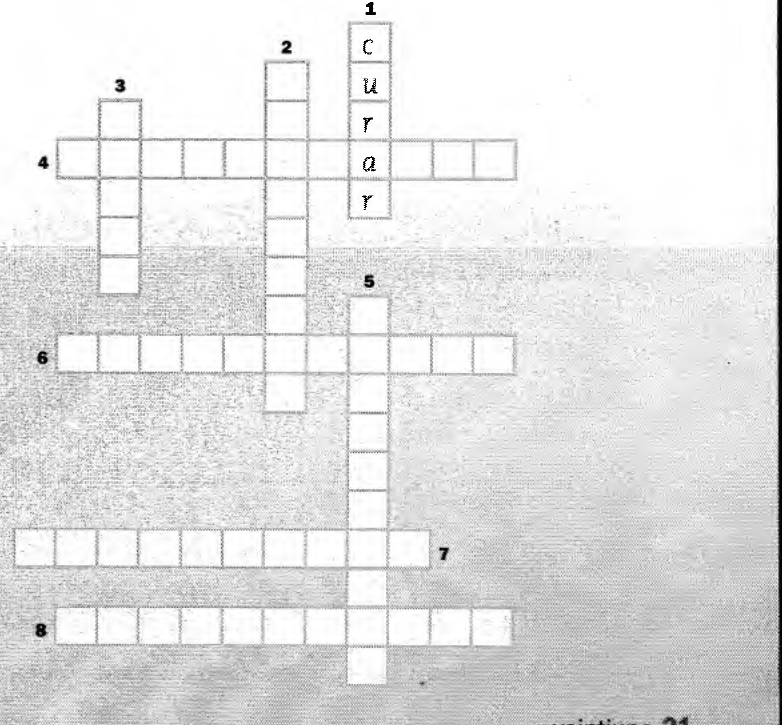
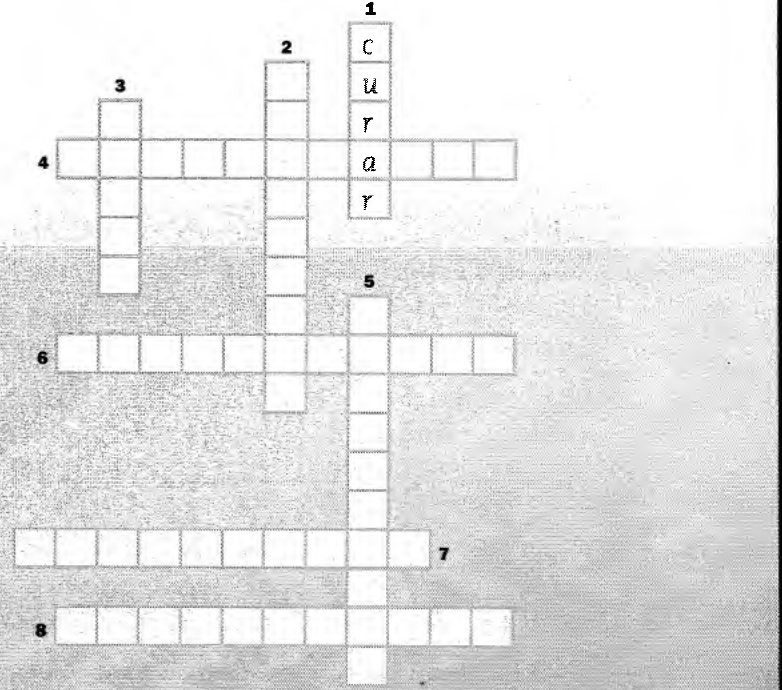
Aplica los cuatro detalles de la revisión
Ninguno bloqueaba, pero dos tocan justo el archivo que será la única
fuente de 5B cuando el PDF ya no esté:

- La transcripción del audio ponía «la cabeza» en cursiva en el segundo
  párrafo, donde el libro la escribe en redonda. En ese archivo la cursiva
  marca las palabras que son respuesta, así que una sesión futura podría
  haber contado 23 huecos en vez de 22. Corregido, y explicado al lado por
  qué «cabeza» y «pies» solo cuentan una vez aunque el audio los repita.
- El recorte del crucigrama se llevaba dentro el folio de la página. Fuera,
  como ya se hizo con la ilustración de 6B.

Y dos de documentación:

- La regla de no versionar páginas del libro se contradecía con esta
  carpeta. Ahora dice explícitamente que pendientes/ es la excepción, y por
  qué: es lo único que le queda a la sesión que construya el capítulo. Se
  borra al publicarlo.
- Una frase repetida y una línea de 117 caracteres en SKILL.md.

Claude-Session: https://claude.ai/code/session_01SV4AB4NNKiXaeMuGEkh2i2

diff --git a/.claude/skills/ejercicio-interactivo/SKILL.md b/.claude/skills/ejercicio-interactivo/SKILL.md
@@ -298,10 +298,10 @@ no las deshagas sin querer al modificar la plantilla.
 - **El cuaderno de B1 también trae solucionario y transcripciones**, con el mismo reparto:
   **64-68 transcripciones, 69-76 soluciones** (las 52-63 son los textos de «Leer más», la
   76 son las soluciones de esas lecturas y la 77 es la contracubierta; el PDF tiene 77
-  páginas y su numeración coincide con la del libro, sin desfase). El índice del principio,
-  en la página 3, lo dice tal cual: fíate de él y confírmalo renderizando. Ojo: el índice del principio lista la
-  página en la que EMPIEZA cada unidad, no la de cada sección — la unidad 5 empieza en la
-  20, así que 5A está en la 20, 5B en la 21 y 5C en la 22. Este PDF sí tiene capa de texto,
+  páginas y su numeración coincide con la del libro, sin desfase). Lo dice tal cual el
+  índice de la página 3; aun así, confírmalo renderizando los límites. Ojo con una trampa
+  de ese índice: lista la página en la que EMPIEZA cada unidad, no la de cada sección — la
+  unidad 5 empieza en la 20, así que 5A está en la 20, 5B en la 21 y 5C en la 22. Este PDF sí tiene capa de texto,
   pero es OCR de ABBYY con codificación Custom y sale sucio («senala», «Buenos dlas»): vale
   para localizar en qué página está algo, no para copiar. Transcribe mirando la página.
 - **Dónde están las transcripciones y el solucionario del cuaderno de A1.** El PDF del
@@ -660,7 +660,9 @@ parezca más "controlable" desde JS — ya se demostró que rompe el caso más b
   archivo (`pdffonts`, `pdfdetach`), saca el texto con `pdftotext -layout`, renderiza cada
   página a JPEG para poder mirarla, y extrae las imágenes incrustadas. Es la herramienta del
   paso 1 cuando el profesor adjunta el PDF. Escribe fuera del repo a propósito: las páginas
-  de un libro con copyright son material de trabajo intermedio, no se versionan; lo que se
+  de un libro con copyright son material de trabajo intermedio, no se versionan (la única
+  excepción es `fuentes/pendientes/`, donde sí se guarda lo justo para poder construir un
+  capítulo en otra sesión, y que se borra en cuanto ese capítulo se publica); lo que se
   archiva es la transcripción.
 - **`/mnt/skills/public/pdf-reading/SKILL.md`** — guía completa de lectura de PDF que viene
   con el entorno pero **no aparece entre las skills activables**, así que hay que abrirla con

diff --git a/docencia-espanol/fuentes/pendientes/b1-5b/CAPITULO.md b/docencia-espanol/fuentes/pendientes/b1-5b/CAPITULO.md
@@ -45,11 +45,15 @@ hombros, espalda, brazos, pecho, abdomen, piernas, caderas, muslos, tobillos, ta
 > músculos de sus *ojos*: sus *cejas*, sus *pestañas*… Sienta su *frente* relajada e imagine
 > que alguien está pasando despacio un cepillo muy suave por sus *cabellos*.
 >
-> Deje que cada parte de su cuerpo sea atraída por la gravedad: la *cabeza*, el *cuello*,
+> Deje que cada parte de su cuerpo sea atraída por la gravedad: la cabeza, el *cuello*,
 > los *hombros*, la *espalda*… Ahora cada parte de su cuerpo es muy pesada: los *brazos*, el
 > *pecho*, el *abdomen*… Sus *piernas* son cada vez más pesadas: sienta como poco a poco se
 > relajan sus *caderas*, sus *muslos*, sus *tobillos*… Sienta sus pies más y más relajados:
 > el *talón*, cada uno de los *dedos*… Cualquier tensión desaparece poco a poco…
+
+En la transcripción, la **cursiva marca las palabras que son respuesta**, y cada una va
+en cursiva solo la primera vez que se nombra: el audio repite «cabeza» y «pies», pero
+cuentan una sola vez. Por eso son 22 respuestas y no 24 — el libro las escribe igual.
 
 El audio (MP3) **no lo tenemos**. Se avisa en el enunciado, como en 6A, 6C y 7A.
 

diff --git a/docencia-espanol/fuentes/README.md b/docencia-espanol/fuentes/README.md
@@ -113,6 +113,10 @@ página renderizada a JPEG, y las imágenes incrustadas a resolución original. 
 del repo: las páginas del libro son material intermedio con copyright, aquí solo se archiva
 la transcripción.
 
+La única excepción es `pendientes/`: ahí sí se guardan la página y sus recortes, porque
+son lo único que le quedará a la sesión que construya el capítulo cuando el PDF ya no
+esté. Se borran en cuanto el capítulo se publica.
+
 **Mira siempre el render antes de cerrar un capítulo**, aunque el texto haya salido
 perfecto. Hay cosas que el texto no puede representar y que cambian las respuestas: las
 líneas de un «relaciona», los ítems ya resueltos, lo rodeado a mano. La 6B se transcribió
